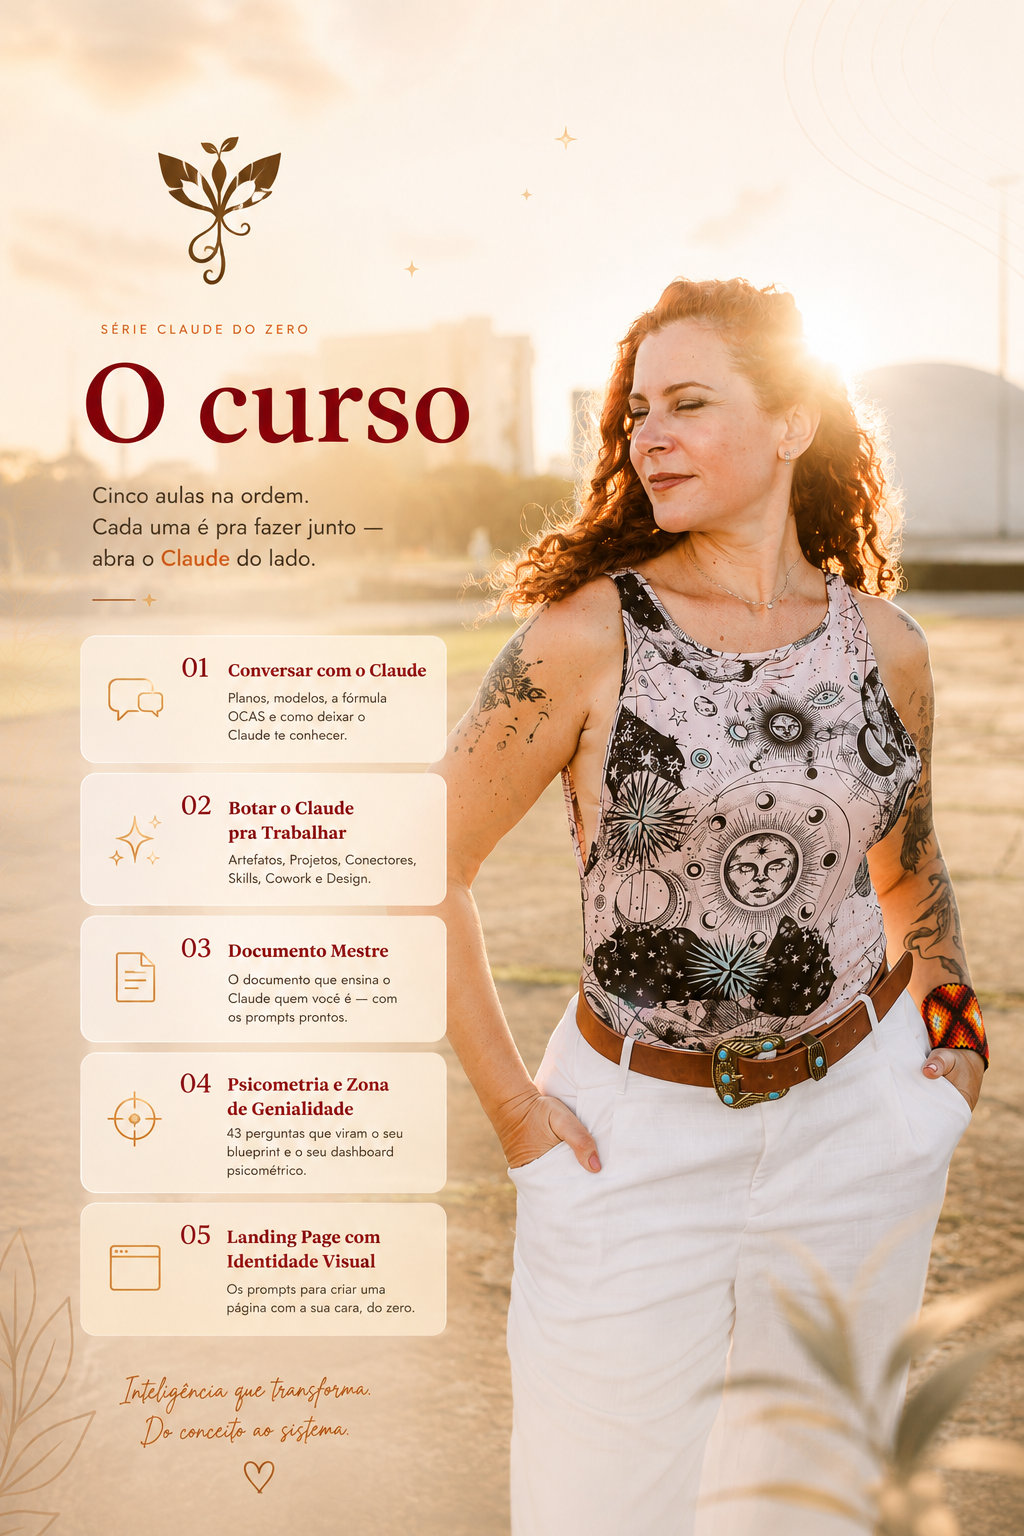
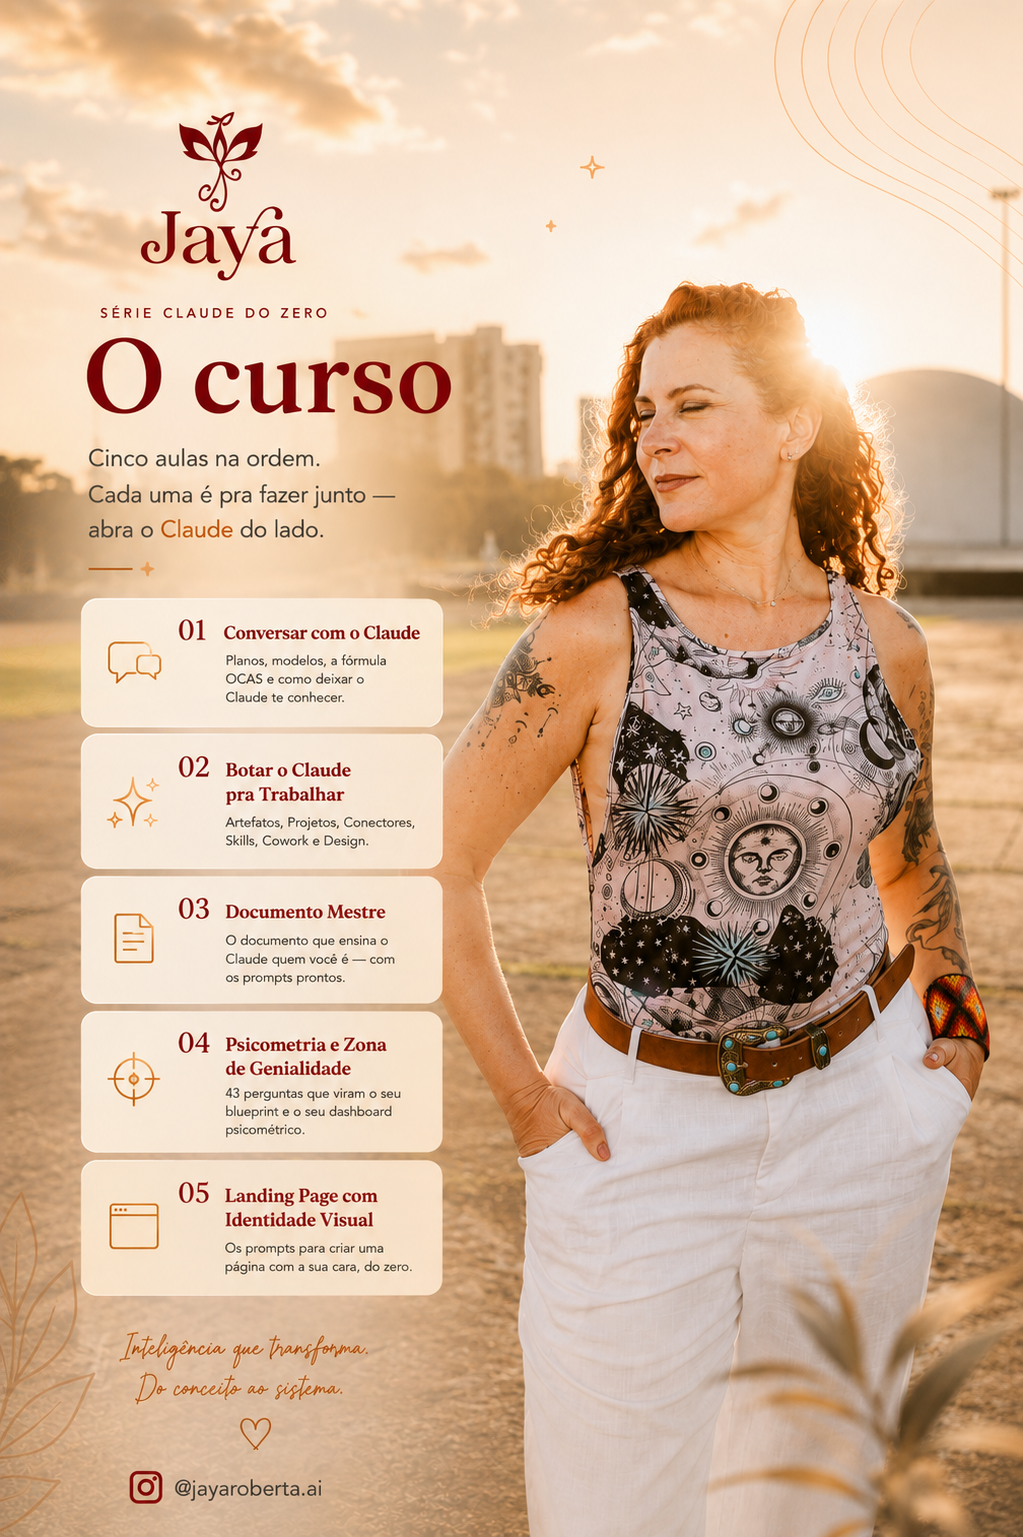
chore(home): update the reference artwork to match the published cover
inicial_com_cards.png is never served — globals.css paints the cover from
capa.webp, and the cards are HTML positioned over it. This file exists so the
next person can see where those percentages came from.

It had drifted from what is actually online: the published cover carries the
full Jaya wordmark, not just the symbol, plus the Instagram handle in the
footer. A reference that no longer matches the thing it references sends the
next measurement to the wrong place.

The comment's dimensions follow the new file (1023x1537). The positions are
percentages, so the one-pixel difference changes nothing that was measured.

diff --git a/app/page.tsx b/app/page.tsx
@@ -3,7 +3,7 @@ import Sair from '@/app/Sair';
 import { buscarAluno } from '@/app/lib/aluno';
 import { clienteServidor } from '@/app/lib/supabase/servidor';
 
-/* Posições medidas na arte de referência (inicial_com_cards.png, 1024x1536) e
+/* Posições medidas na arte de referência (inicial_com_cards.png, 1023x1537) e
    reescaladas por 0.85 para caber no vão livre da capa sem cards, que é menor
    porque o logo empurra o conteúdo. As proporções entre os cards são as da arte. */
 const AULAS = [
